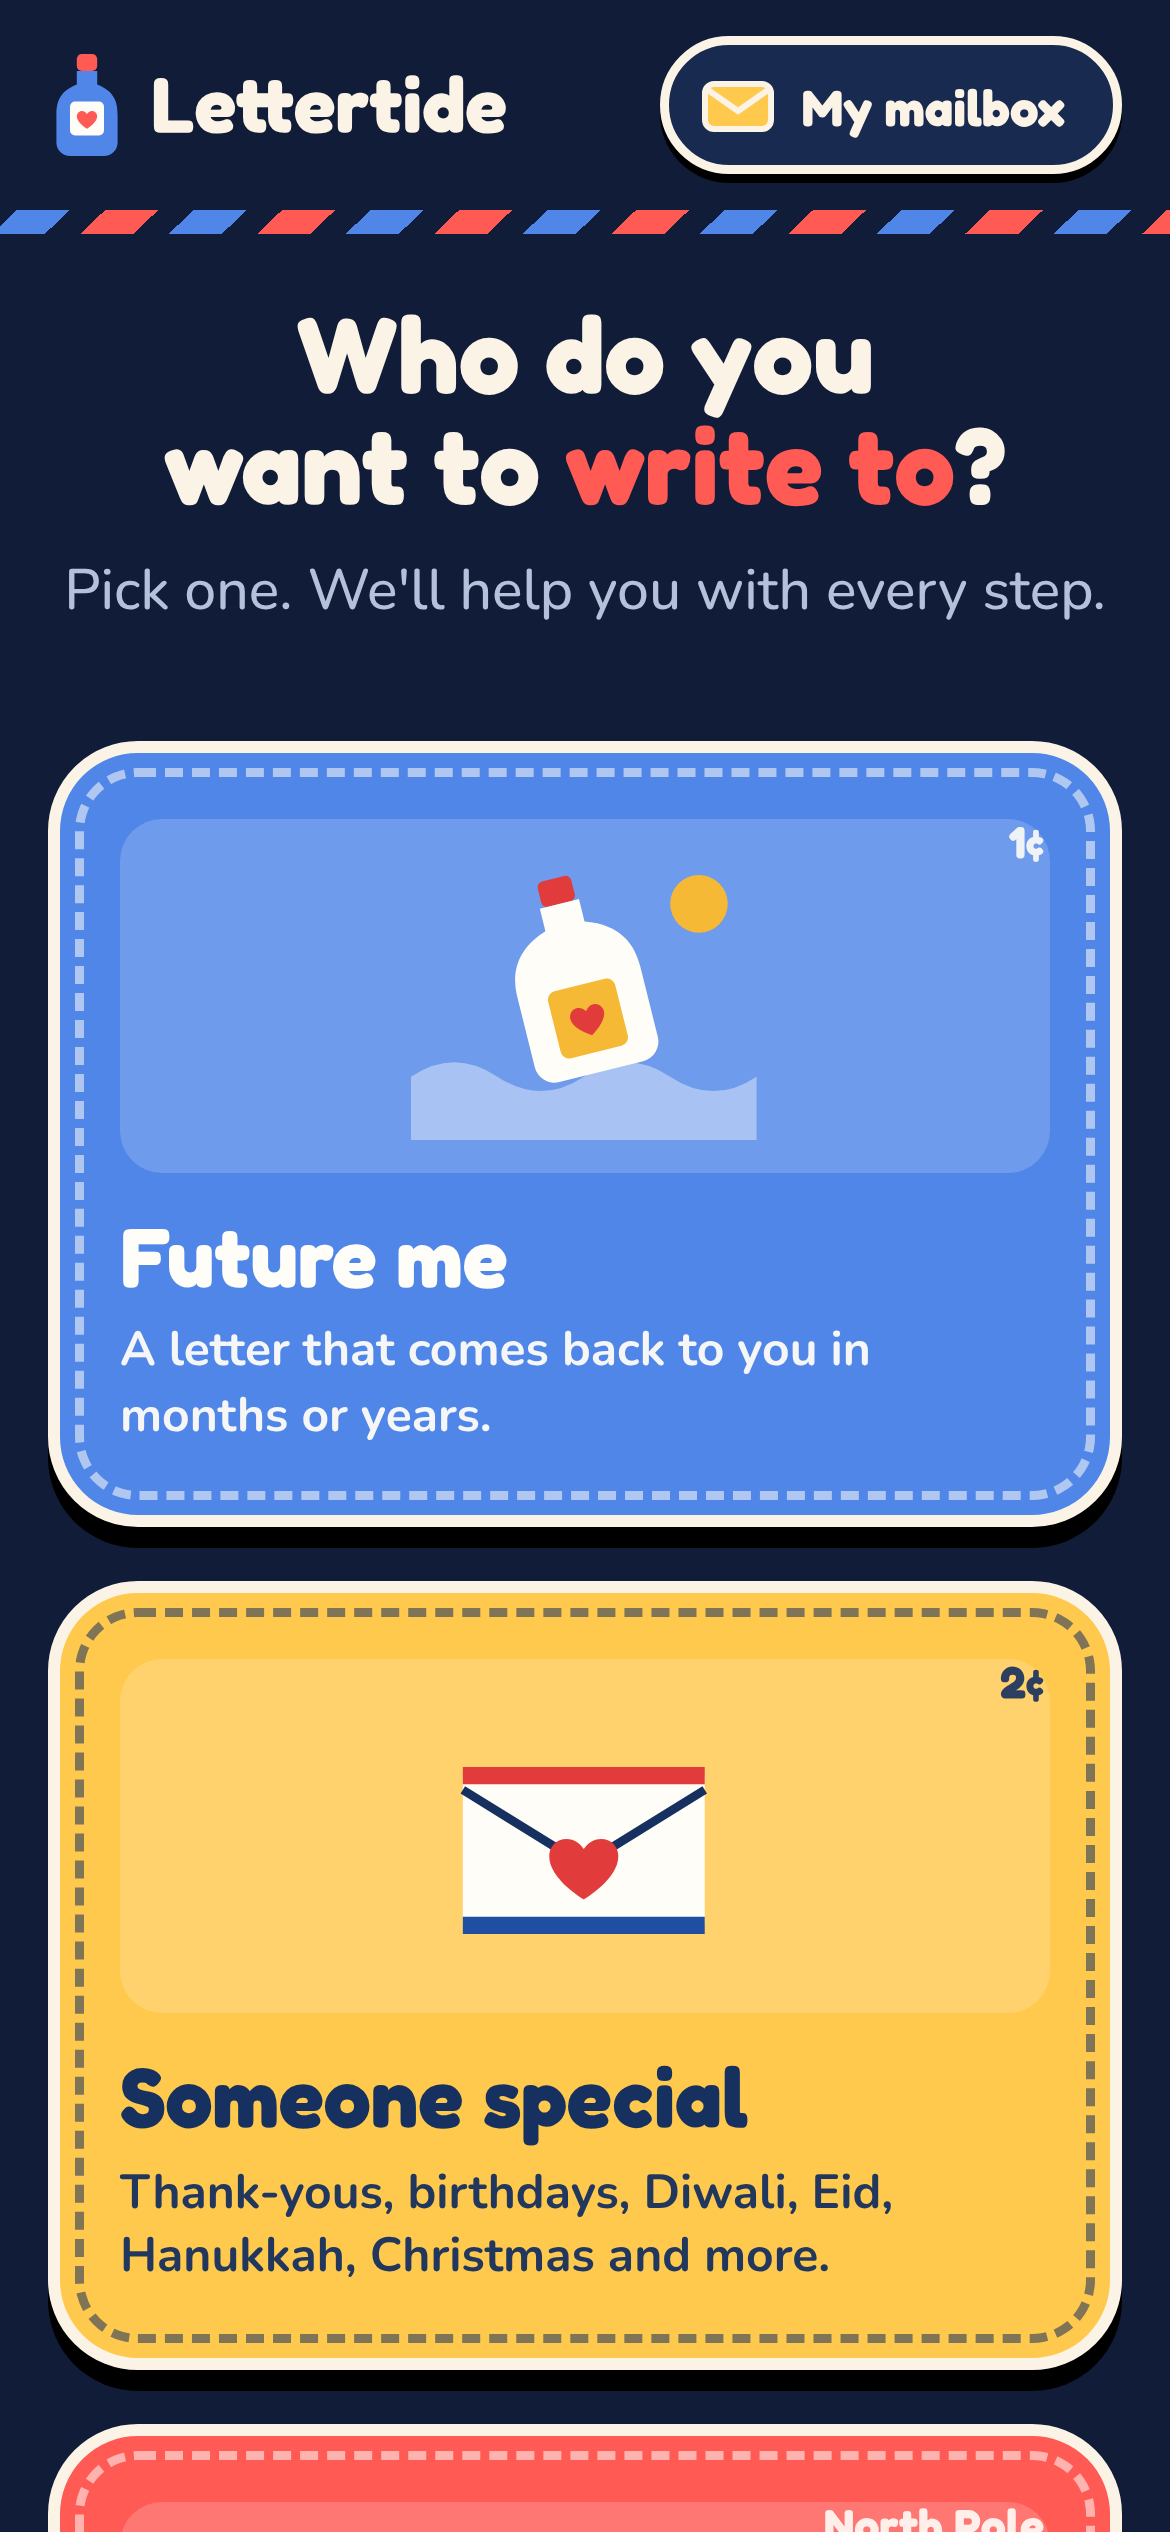
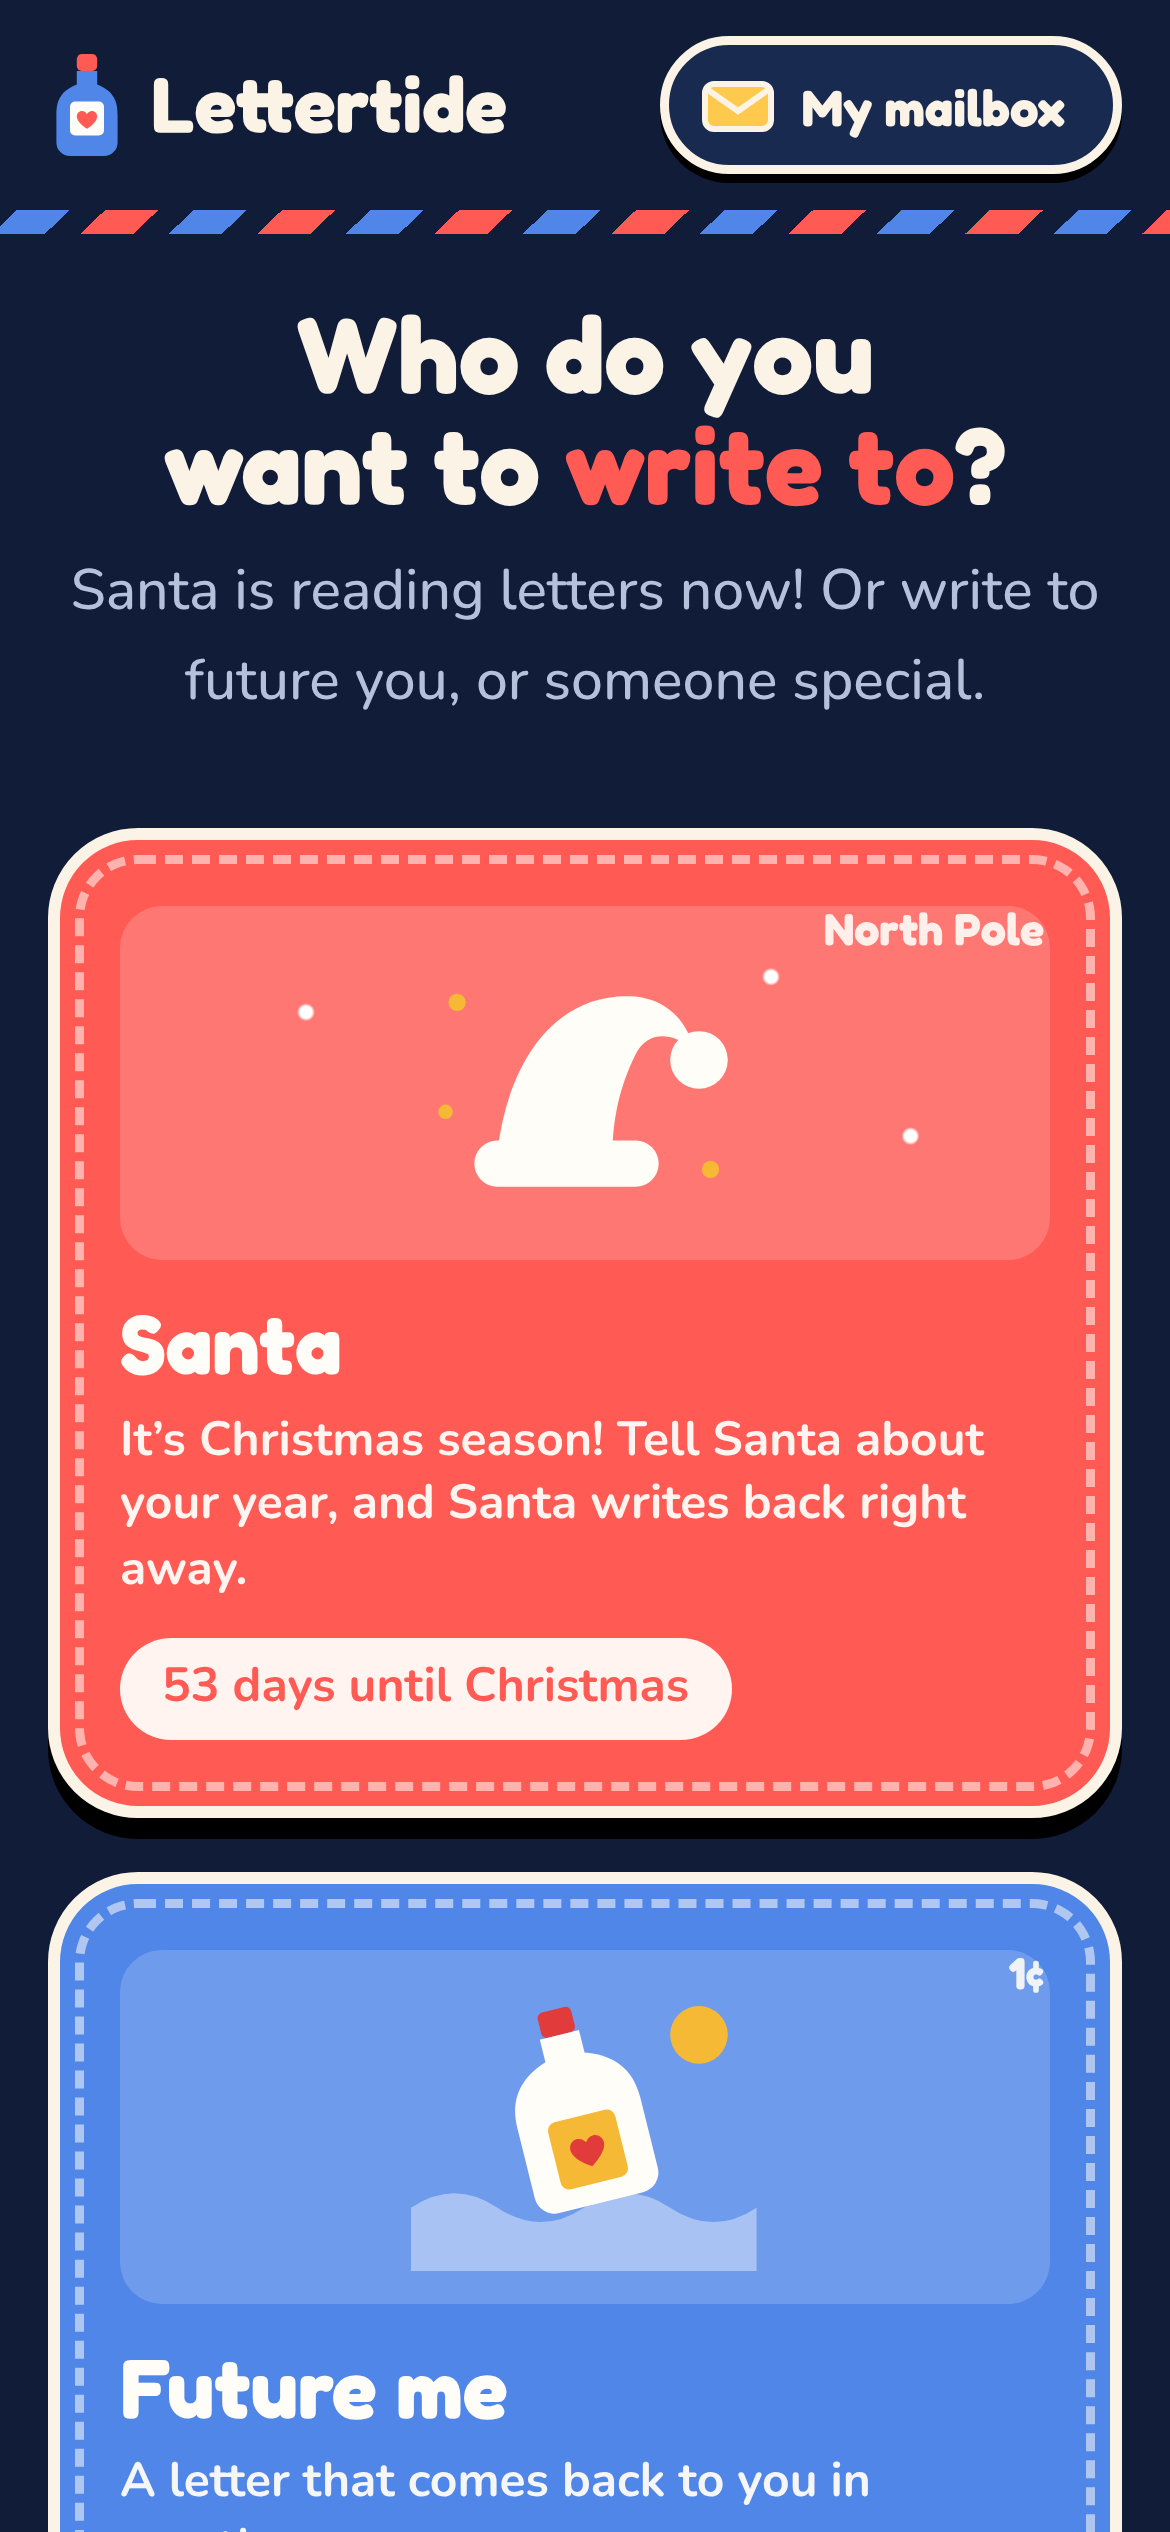
Cards arrive as postcards; Santa leads the home page in Christmas season
Card emails now look like a real postcard (picture side, message,
stamp, postmark, To line). From Nov 1 to Dec 25 Santa is featured
first with a countdown to Christmas.

Claude-Session: https://claude.ai/code/session_01DTrxakbNKCcgw1AGmyGXff

diff --git a/mailer.js b/mailer.js
@@ -49,19 +49,60 @@ const templates = {
       html: wrap('A letter from past you is here!', `You wrote to yourself on <b>${fmt(created)}</b>. It has been floating at sea ever since, and today it washed ashore.<br><br>${body}`, { href: link, label: letter ? 'Write back to the future' : 'Open my letter' })
     };
   },
-  card: c => {
+  // A card arrives as a postcard: the picture side on top, the written side (message, stamp, postmark, address) below.
+  card: (c, sentAt = Date.now()) => {
     const T = { sun: ['#F5B935', '#16305F'], berry: ['#E23B3B', '#FFFDF8'], ocean: ['#1F4FA0', '#FFFDF8'], fall: ['#C98D4B', '#2E1A08'], mint: ['#FFFDF8', '#16305F'], grape: ['#16305F', '#FFFDF8'] }[c.theme] || ['#F5B935', '#16305F'];
-    const subj = { thanks: 'A thank-you card for you', thanksgiving: 'A Happy Thanksgiving card for you', birthday: 'A birthday card for you', getwell: 'A get-well card for you', love: 'A card full of love for you', hello: 'A card for you',
-      diwali: 'A Happy Diwali card for you', hanukkah: 'A Happy Hanukkah card for you', christmas: 'A Merry Christmas card for you', kwanzaa: 'A Happy Kwanzaa card for you',
-      pongal: 'A Happy Pongal card for you', lunar: 'A Happy Lunar New Year card for you', eidfitr: 'An Eid Mubarak card for you', eidadha: 'An Eid Mubarak card for you',
-      holi: 'A Happy Holi card for you', mothers: 'A Happy Mother’s Day card for you', fathers: 'A Happy Father’s Day card for you', rakhi: 'A Happy Raksha Bandhan card for you' }[c.occasion] || 'A card for you';
+    const O = {
+      thanks: ['A thank-you card for you', 'Thank you!', '💌'], birthday: ['A birthday card for you', 'Happy birthday!', '🎂'], getwell: ['A get-well card for you', 'Get well soon', '🌻'],
+      love: ['A card full of love for you', 'With love', '💗'], hello: ['A card for you', 'Hello from me', '✉'], thanksgiving: ['A Happy Thanksgiving card for you', 'Happy Thanksgiving', '🍂'],
+      diwali: ['A Happy Diwali card for you', 'Happy Diwali', '🪔'], hanukkah: ['A Happy Hanukkah card for you', 'Happy Hanukkah', '🕎'], christmas: ['A Merry Christmas card for you', 'Merry Christmas', '🎄'],
+      kwanzaa: ['A Happy Kwanzaa card for you', 'Happy Kwanzaa', '🕯'], pongal: ['A Happy Pongal card for you', 'Happy Pongal', '🌾'], lunar: ['A Happy Lunar New Year card for you', 'Happy Lunar New Year', '🏮'],
+      eidfitr: ['An Eid Mubarak card for you', 'Eid Mubarak', '🌙'], eidadha: ['An Eid Mubarak card for you', 'Eid Mubarak', '🌙'], holi: ['A Happy Holi card for you', 'Happy Holi', '🎨'],
+      mothers: ['A Happy Mother’s Day card for you', 'Happy Mother’s Day', '💐'], fathers: ['A Happy Father’s Day card for you', 'Happy Father’s Day', '⭐'], rakhi: ['A Happy Raksha Bandhan card for you', 'Happy Raksha Bandhan', '🧵']
+    }[c.occasion] || ['A card for you', 'Hello from me', '✉'];
+    const [subj, greeting, icon] = O;
+    const day = new Date(sentAt).toLocaleDateString('en-US', { month: 'short', day: 'numeric', year: 'numeric' }).toUpperCase();
+    const hand = "'Patrick Hand','Comic Sans MS','Chalkboard SE',cursive";
+    const stripe = 'repeating-linear-gradient(-45deg,#E23B3B 0 10px,#FFFDF8 10px 16px,#1F4FA0 16px 26px,#FFFDF8 26px 32px)';
+    const html = `<!doctype html><html><body style="margin:0;background:#FBF4E6;font-family:Helvetica,Arial,sans-serif;color:#16305F">
+<table width="100%" cellpadding="0" cellspacing="0"><tr><td align="center" style="padding:28px 12px">
+<table width="100%" cellpadding="0" cellspacing="0" style="max-width:560px">
+<tr><td style="padding:0 4px 12px;font-size:15px;color:#5B6888">📬 ${c.from ? `${esc(c.from)} sent you a postcard` : 'You have a postcard'}</td></tr>
+
+<tr><td style="background:${T[0]};background-image:${stripe};padding:8px;border-radius:14px">
+  <table width="100%" cellpadding="0" cellspacing="0" style="background:${T[0]};border-radius:8px"><tr><td align="center" style="padding:40px 20px 34px;color:${T[1]}">
+    <div style="font-size:64px;line-height:1">${icon}</div>
+    <div style="font-size:40px;font-weight:800;line-height:1.1;margin-top:14px">${esc(greeting)}${c.to ? `,<br>${esc(c.to)}!` : '!'}</div>
+    <div style="font-size:14px;letter-spacing:3px;margin-top:16px;opacity:.85">GREETINGS FROM LETTERTIDE</div>
+  </td></tr></table>
+</td></tr>
+
+<tr><td style="height:14px;font-size:0;line-height:0">&nbsp;</td></tr>
+
+<tr><td style="background:#FFFDF8;border:1px solid #E6DCC6;border-radius:14px;padding:22px">
+  <table width="100%" cellpadding="0" cellspacing="0"><tr>
+    <td valign="top" style="width:58%;padding-right:16px;border-right:2px solid #E6DCC6;font-family:${hand};font-size:19px;line-height:1.55;color:#16305F;white-space:pre-wrap">${esc(c.body)}${c.from ? `<div style="font-size:21px;font-weight:700;margin-top:12px">From ${esc(c.from)}</div>` : ''}</td>
+    <td valign="top" style="width:42%;padding-left:16px">
+      <table cellpadding="0" cellspacing="0" align="right" style="border:3px dashed #FFFDF8;outline:3px solid ${T[0] === '#FFFDF8' ? '#E23B3B' : T[0]};background:${T[0] === '#FFFDF8' ? '#E23B3B' : T[0]};width:84px"><tr><td align="center" style="padding:8px 4px;color:${T[0] === '#FFFDF8' || T[0] === '#E23B3B' || T[0] === '#1F4FA0' || T[0] === '#16305F' ? '#FFFDF8' : T[1]}">
+        <div style="font-size:30px;line-height:1">${icon}</div><div style="font-size:9px;font-weight:800;letter-spacing:1px;margin-top:4px">AIRMAIL</div>
+      </td></tr></table>
+      <div style="clear:both;height:8px;font-size:0">&nbsp;</div>
+      <table cellpadding="0" cellspacing="0" style="border:2px solid #9AA6C2;border-radius:50%;width:92px;height:92px;transform:rotate(-12deg)"><tr><td align="center" valign="middle" style="font-size:9px;font-weight:800;color:#7D89A8;letter-spacing:.5px;line-height:1.4">LETTERTIDE<br>${day}<br>DELIVERED</td></tr></table>
+      <div style="margin-top:16px;font-size:12px;color:#5B6888;font-weight:700">TO</div>
+      <div style="border-bottom:1.5px solid #C9BFA8;padding:4px 0;font-family:${hand};font-size:20px;color:#16305F">${esc(c.to || '')}</div>
+      <div style="border-bottom:1.5px solid #C9BFA8;height:22px"></div>
+      <div style="border-bottom:1.5px solid #C9BFA8;height:22px"></div>
+    </td>
+  </tr></table>
+</td></tr>
+
+<tr><td style="padding:14px 4px 0;font-size:14px;color:#5B6888">↩ Reply to this email to write back${c.from ? ' to ' + esc(c.from) : ''}.</td></tr>
+<tr><td style="padding:6px 4px 0;font-size:12px;color:#9AA6C2">Sent with Lettertide, letters that arrive right on time.</td></tr>
+</table></td></tr></table></body></html>`;
     return {
       subject: c.from ? `${subj} from ${c.from}` : `${subj}, ${c.to}!`,
-      text: `To ${c.to}\n\n${c.body}\n\n${c.from ? `From ${c.from}\n\n` : ''}(Reply to this email to write back${c.from ? ' to ' + c.from : ''}.)`,
-      html: wrap(subj, `<div style="background:${T[0]};color:${T[1]};border:4px solid #16305F;border-radius:6px;padding:24px;font-family:'Comic Sans MS','Patrick Hand',cursive">
-        <div style="font-size:24px;font-weight:700;margin-bottom:10px">To ${esc(c.to)}</div>
-        <div style="font-size:20px;line-height:1.5;white-space:pre-wrap">${esc(c.body)}</div>${c.from ? `<div style="font-size:22px;font-weight:700;margin-top:14px">From ${esc(c.from)}</div>` : ''}</div>
-        <p style="font-size:14px;color:#6b6390;margin-top:16px">Reply to this email to write back${c.from ? ' to ' + esc(c.from) : ''}.</p>`)
+      text: `${greeting}, ${c.to}!\n\n${c.body}\n\n${c.from ? `From ${c.from}\n\n` : ''}(A postcard sent with Lettertide. Reply to this email to write back${c.from ? ' to ' + c.from : ''}.)`,
+      html
     };
   },
   arrivedBackup: ({ owner, link }) => ({

diff --git a/public/index.html b/public/index.html
@@ -123,6 +123,15 @@ textarea.write{width:100%;font:400 25px/1.6 var(--f-hand);color:var(--ink);backg
 .speak svg{width:22px;height:22px;vertical-align:-4px;margin-right:6px}
 @media (prefers-reduced-motion:reduce){.mic.on{animation:none}}
 
+/* Christmas season: Santa comes first */
+.doors.has-season{grid-template-columns:repeat(auto-fit,minmax(280px,1fr))}
+.doors .door.season{grid-column:1/-1;order:-1;grid-template-columns:minmax(0,1fr) minmax(0,1.3fr);align-items:center;column-gap:22px}
+.door.season .pic{grid-row:1/span 4;height:180px;margin:0}
+.door.season b{font-size:36px}
+.countdown{justify-self:start;font:700 16px var(--f-display);background:#FFFDF8;color:var(--red);border-radius:999px;padding:6px 14px;margin-top:6px}
+.door.season .pic{background-image:radial-gradient(circle at 20% 30%,#fff 0 2px,transparent 3px),radial-gradient(circle at 70% 20%,#fff 0 2px,transparent 3px),radial-gradient(circle at 45% 70%,#fff 0 1.5px,transparent 2.5px),radial-gradient(circle at 85% 65%,#fff 0 2px,transparent 3px);background-color:color-mix(in srgb,#fff 18%,transparent)}
+@media (max-width:640px){.doors .door.season{grid-template-columns:1fr}.door.season .pic{grid-row:auto;height:118px;margin-bottom:8px}.door.season b{font-size:28px}}
+
 /* occasions */
 .occ{display:grid;gap:10px}
 .occ-head{margin:6px 0 0;font:700 15px var(--f-display);color:var(--muted)}
@@ -216,7 +225,7 @@ footer{padding-block:10px 40px;text-align:center;color:var(--muted);font-size:15
 <main data-panel="home" class="g"><div class="wrap">
   <div class="hello">
     <h1>Who do you want to <span>write to</span>?</h1>
-    <p>Pick one. We'll help you with every step.</p>
+    <p id="hello-sub">Pick one. We'll help you with every step.</p>
   </div>
   <div class="doors">
     <a class="door" href="#future" style="--c:var(--sky)">
@@ -227,7 +236,7 @@ footer{padding-block:10px 40px;text-align:center;color:var(--muted);font-size:15
       <div class="pic"><svg viewBox="0 0 120 100" aria-hidden="true"><rect x="18" y="26" width="84" height="58" rx="4" fill="#FFFDF8"/><path d="M18 26h84v6H18z" fill="#E23B3B"/><path d="M18 78h84v6H18z" fill="#1F4FA0"/><path d="M18 34l42 26 42-26" fill="none" stroke="#16305F" stroke-width="3" stroke-linejoin="round"/><path d="M60 72s-12-7-12-15c0-3.5 2.6-6 6-6 2.7 0 4.8 1.7 6 3.5 1.2-1.8 3.3-3.5 6-3.5 3.4 0 6 2.5 6 6 0 8-12 15-12 15z" fill="#E23B3B"/></svg></div>
       <span class="stamp-val" aria-hidden="true">2¢</span><b>Someone special</b><span>Thank-yous, birthdays, Diwali, Eid, Hanukkah, Christmas and more.</span>
     </a>
-    <a class="door" href="#santa" style="--c:var(--santa)">
+    <a class="door" href="#santa" id="santa-door" style="--c:var(--santa)">
       <div class="pic"><svg viewBox="0 0 120 100" aria-hidden="true"><path d="M30 74C34 40 52 18 78 20c10 1 18 8 20 18-8-6-16-6-20 2-6 12-8 24-8 34z" fill="#FFFDF8"/><rect x="22" y="70" width="64" height="16" rx="8" fill="#FFFDF8"/><circle cx="100" cy="42" r="10" fill="#FFFDF8"/><g fill="#F5B935"><circle cx="16" cy="22" r="3"/><circle cx="104" cy="80" r="3"/><circle cx="12" cy="60" r="2.5"/></g></svg></div>
       <span class="stamp-val" aria-hidden="true">North Pole</span><b>Santa</b><span>Tell Santa about your year. Santa writes back!</span>
     </a>
@@ -976,6 +985,17 @@ function readAloud(getText){
   return b;
 }
 addEventListener('hashchange', () => { stopTalking(); try { speechSynthesis.cancel(); } catch {} });
+
+/* ================= Christmas season (Nov 1 to Dec 25) ================= */
+(function christmasSeason(){
+  const now = new Date(), xmas = new Date(now.getFullYear(), 11, 25);
+  if (now.getMonth() < 10 || now > new Date(now.getFullYear(), 11, 25, 23, 59)) return;
+  const days = Math.ceil((xmas - new Date(now.getFullYear(), now.getMonth(), now.getDate())) / DAY);
+  const door = $('#santa-door'); door.classList.add('season'); door.parentElement.classList.add('has-season');
+  door.querySelector('span:last-of-type').textContent = 'It’s Christmas season! Tell Santa about your year, and Santa writes back right away.';
+  door.append(el('span', { className:'countdown', textContent: days === 0 ? 'It’s Christmas today!' : `${days} day${days === 1 ? '' : 's'} until Christmas` }));
+  $('#hello-sub').textContent = 'Santa is reading letters now! Or write to future you, or someone special.';
+})();
 
 /* ================= routing ================= */
 function show(){

diff --git a/test/smoke.js b/test/smoke.js
@@ -43,7 +43,7 @@ const wait = ms => new Promise(r => setTimeout(r, ms));
   assert.equal(card.r.status, 201);
   await wait(200);
   const g = outbox.find(m => m.to === 'grandma@example.com');
-  assert(g && /Thanksgiving card for you from Maya/.test(g.subject) && g.replyTo === 'parent@example.com' && g.fromName === 'Maya' && g.html.includes('From Maya'));
+  assert(g && /Thanksgiving card for you from Maya/.test(g.subject) && g.replyTo === 'parent@example.com' && g.fromName === 'Maya' && g.html.includes('From Maya') && g.html.includes('postcard'));
   assert.equal(require('../mailer').fromFor('Maya'), '"Maya via Lettertide" <letters@localhost>');
   assert.equal(require('../mailer').fromFor('Evil"<x@y>'), '"Evilx@y via Lettertide" <letters@localhost>');
   // scheduled card + bad email

diff --git a/server.js b/server.js
@@ -223,7 +223,7 @@ async function tick() {
           out.future++;
         } else if (m.kind === 'people' && m.recipient_email) {
           const card = JSON.parse(m.data);
-          await mailer.send(m.recipient_email, mailer.templates.card(card), { replyTo: m.email, fromName: card.from });
+          await mailer.send(m.recipient_email, mailer.templates.card(card, t), { replyTo: m.email, fromName: card.from });
           out.cards++;
         }
         await db.run('UPDATE mail SET delivered_at = ? WHERE id = ?', t, m.id);

diff --git a/README.md b/README.md
@@ -38,6 +38,7 @@ Lettertide brings every letter that matters into one bright, friendly place, whe
 - **Letters that answer back.** A future letter brings back a time capsule (favorite food, best friend, what I want to be) beside empty boxes for who you are now, asks whether your guess came true, and lets you write back to the future.
 - **Santa writes back, safely.** Santa never promises a specific present, never asks for an address or school, never suggests keeping secrets, and gently tells a child to talk to a trusted grown-up if they mention being hurt or scared.
 - **Cards for every culture's big days.** Diwali, Eid al-Fitr and Eid al-Adha, Hanukkah, Christmas, Kwanzaa, Lunar New Year, Holi, Raksha Bandhan, Pongal and Sankranti, Thanksgiving, Mother's and Father's Day, plus everyday thank-yous and birthdays. Each festival comes with its own greetings, colors and sticker (a diya for Diwali, a crescent moon for Eid, a menorah for Hanukkah, a lantern for Lunar New Year), and Lettertide works out the date so the card arrives on the day.
+- **Christmas season.** From November 1 until Christmas, Santa moves to the top of the home page with a countdown to Christmas.
 - **Sent as you, answered to you.** Grandma sees the card from "Maya via Lettertide", and when she taps Reply, it goes straight to Maya's family.
 - **An airmail look.** Red-and-blue airmail stripes, envelope cream and stamp yellow on every screen and every email, with the three choices drawn as postage stamps. It works in light and dark mode.
 
@@ -64,9 +65,9 @@ Make a card, decorate it, and send it now or on the day that matters.
 
 <p><img src="docs/screenshots/card.png" alt="Designing a kraft-paper Thanksgiving card for Grandma with a leaf sticker" width="49%"> <img src="docs/screenshots/card-when.png" alt="Choosing to send the card on Thanksgiving to Grandma's email" width="49%"></p>
 
-What Grandma receives in her inbox:
+What arrives in their inbox: a postcard, with a picture side and a written side with stamp, postmark and address.
 
-<p align="center"><img src="docs/screenshots/email-card.png" alt="The Thanksgiving card as an email, signed From Maya" width="520"></p>
+<p align="center"><img src="docs/screenshots/email-card.png" alt="The card arrives as a postcard email: a Happy Diwali picture side, then the message with a stamp, postmark and To line" width="520"></p>
 
 ### Santa
 
